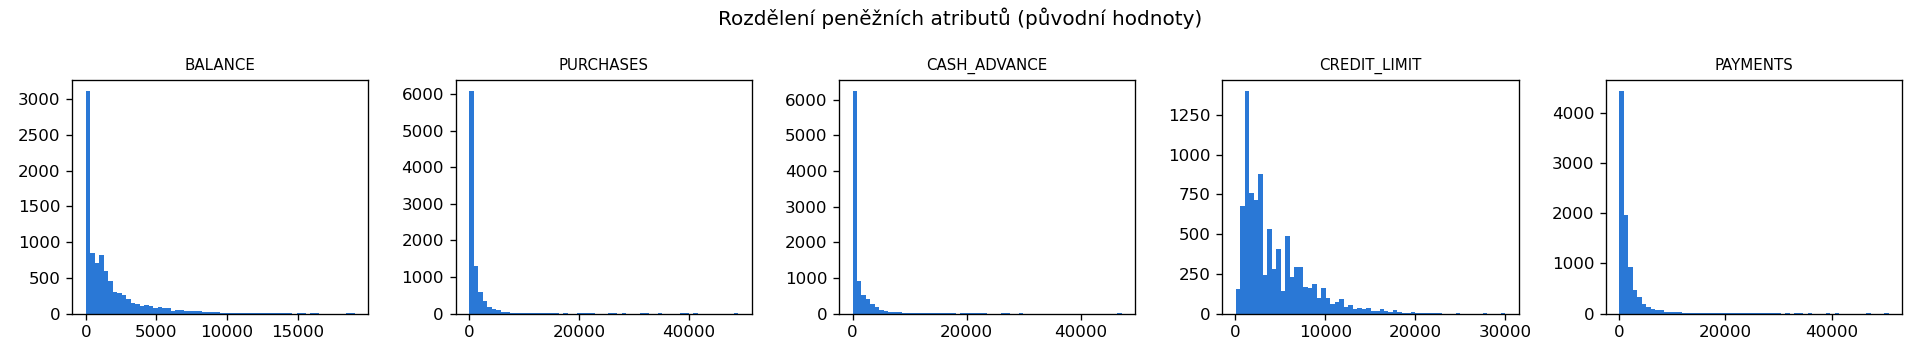
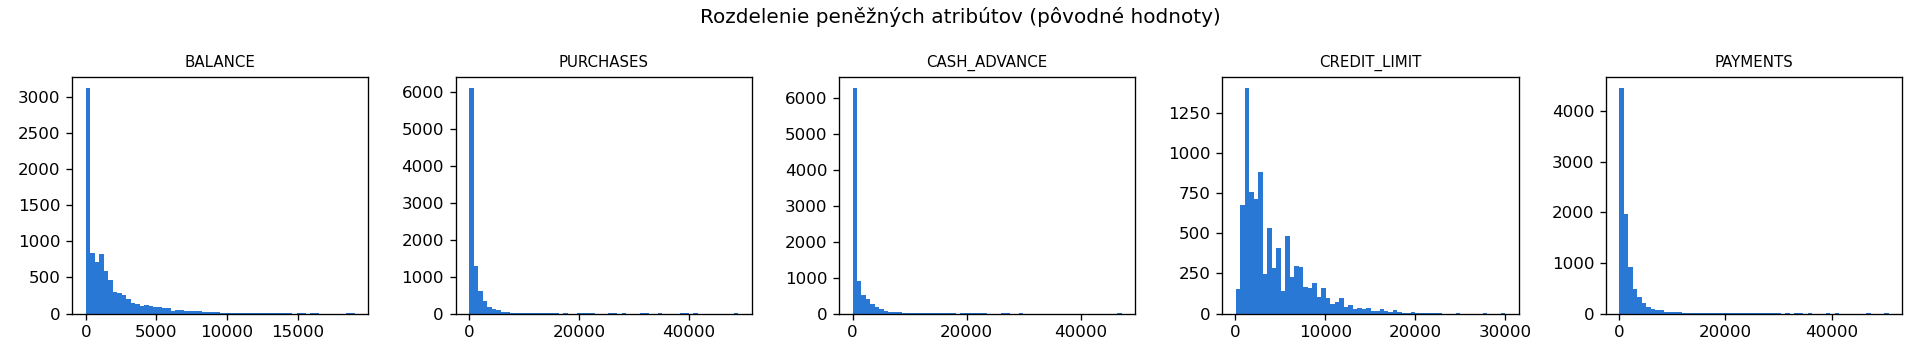
Výber atribútov, transformácia a škálovanie dát

diff --git a/src/preprocessing.py b/src/preprocessing.py
@@ -1,0 +1,57 @@
+import numpy as np
+import pandas as pd
+import matplotlib.pyplot as plt
+import seaborn as sns
+from sklearn.preprocessing import StandardScaler
+
+from src.config import FEATURES, MONEY, FIG_DIR
+
+
+def select_and_clean(df: pd.DataFrame) -> pd.DataFrame:
+    # Vyberie atribúty a opraví dáta. Vracia pôvodné (netransformované) hodnoty
+    # – tie neskôr sa použijú na interpretáciu clusterov.
+    data = df[FEATURES].copy()
+    data["CREDIT_LIMIT"] = data["CREDIT_LIMIT"].fillna(data["CREDIT_LIMIT"].median())
+    data["CASH_ADVANCE_FREQUENCY"] = data["CASH_ADVANCE_FREQUENCY"].clip(upper=1)
+    return data
+
+
+def transform(data: pd.DataFrame) -> np.ndarray:
+    # log(1 + x) na peňažné stĺpce + štandardizácia
+    X = data.copy()
+    X[MONEY] = np.log1p(X[MONEY])
+    return StandardScaler().fit_transform(X)
+
+
+def plot_correlation(data: pd.DataFrame) -> None:
+    plt.figure(figsize=(9, 7))
+    sns.heatmap(data.corr(), cmap="RdBu_r", center=0, vmin=-1, vmax=1,
+                annot=True, fmt=".2f", annot_kws={"size": 7}, linewidths=1, linecolor="white")
+    plt.title("Korelácia vybraných atribútov")
+    plt.tight_layout()
+    plt.savefig(FIG_DIR / "02_korelacia.png", dpi=120)
+    plt.close()
+
+
+def plot_before_after(data: pd.DataFrame, Z: np.ndarray) -> None:
+    cols = ["BALANCE", "PURCHASES", "CASH_ADVANCE", "PAYMENTS"]
+    fig, axes = plt.subplots(2, len(cols), figsize=(14, 5.5))
+    for i, c in enumerate(cols):
+        axes[0, i].hist(data[c], bins=60, color="#2a78d6")
+        axes[0, i].set_title(f"{c} – pôvodné", fontsize=9)
+        axes[1, i].hist(Z[:, FEATURES.index(c)], bins=60, color="#1baf7a")
+        axes[1, i].set_title(f"{c} – log + z-score", fontsize=9)
+    fig.tight_layout()
+    fig.savefig(FIG_DIR / "03_transformacia.png", dpi=120)
+    plt.close(fig)
+
+
+def preprocess(df: pd.DataFrame) -> tuple[pd.DataFrame, np.ndarray]:
+    data = select_and_clean(df)
+    Z = transform(data)
+    plot_correlation(data)
+    plot_before_after(data, Z)
+    print(f"Matica pre clustering: {Z.shape[0]} riadkov × {Z.shape[1]} atribútov")
+    print(f"Priemery po škálovaní ≈ 0: {np.allclose(Z.mean(axis=0), 0)}, "
+          f"odchýlky ≈ 1: {np.allclose(Z.std(axis=0), 1)}")
+    return data, Z

diff --git a/src/config.py b/src/config.py
@@ -6,3 +6,14 @@ FIG_DIR = ROOT / "figures"
 FIG_DIR.mkdir(exist_ok=True)
 
 RANDOM_STATE = 42
+
+FEATURES = [
+    "BALANCE", "PURCHASES", "ONEOFF_PURCHASES", "INSTALLMENTS_PURCHASES", "CASH_ADVANCE",
+    "PURCHASES_FREQUENCY", "CASH_ADVANCE_FREQUENCY", "CREDIT_LIMIT", "PAYMENTS", "PRC_FULL_PAYMENT",
+]
+
+# peňažné atribúty -> log transformácia
+MONEY = [
+    "BALANCE", "PURCHASES", "ONEOFF_PURCHASES", "INSTALLMENTS_PURCHASES", "CASH_ADVANCE",
+    "CREDIT_LIMIT", "PAYMENTS",
+]

diff --git a/main.py b/main.py
@@ -1,9 +1,11 @@
 from src.data import load_data, explore
+from src.preprocessing import preprocess
 
 
 def main():
     df = load_data()
     explore(df)
+    data, Z = preprocess(df)
 
 
 if __name__ == "__main__":

diff --git a/README.md b/README.md
@@ -42,3 +42,20 @@ python main.py
 - `CASH_ADVANCE_FREQUENCY` má maximum 1,5, hoci ide o frekvenciu v rozsahu 0–1, čo je chyba v dátach.
 
 ![Rozdelenie peňažných atribútov](figures/01_distribuce.png)
+
+### 2. Výber atribútov a predspracovanie
+
+Pre clustering sme ponechali 10 atribútov: `BALANCE`, `PURCHASES`, `ONEOFF_PURCHASES`,
+`INSTALLMENTS_PURCHASES`, `CASH_ADVANCE`, `PURCHASES_FREQUENCY`, `CASH_ADVANCE_FREQUENCY`,
+`CREDIT_LIMIT`, `PAYMENTS`, `PRC_FULL_PAYMENT`. Vyradené boli identifikátor, redundantné atribúty
+(počty transakcií, čiastkové frekvencie), takmer konštantné atribúty (`TENURE`, `BALANCE_FREQUENCY`)
+a `MINIMUM_PAYMENTS` (chýbajúce hodnoty).
+
+Predspracovanie:
+1. chýbajúci `CREDIT_LIMIT` doplnený mediánom,
+2. `CASH_ADVANCE_FREQUENCY` orezaná na maximum 1,
+3. peňažné atribúty transformované `log(1 + x)` kvôli zošikmenosti,
+4. štandardizácia (z-score), aby mali všetky atribúty v Euklidovskej vzdialenosti rovnakú váhu.
+
+![Korelácia](figures/02_korelacia.png)
+![Transformácia](figures/03_transformacia.png)
